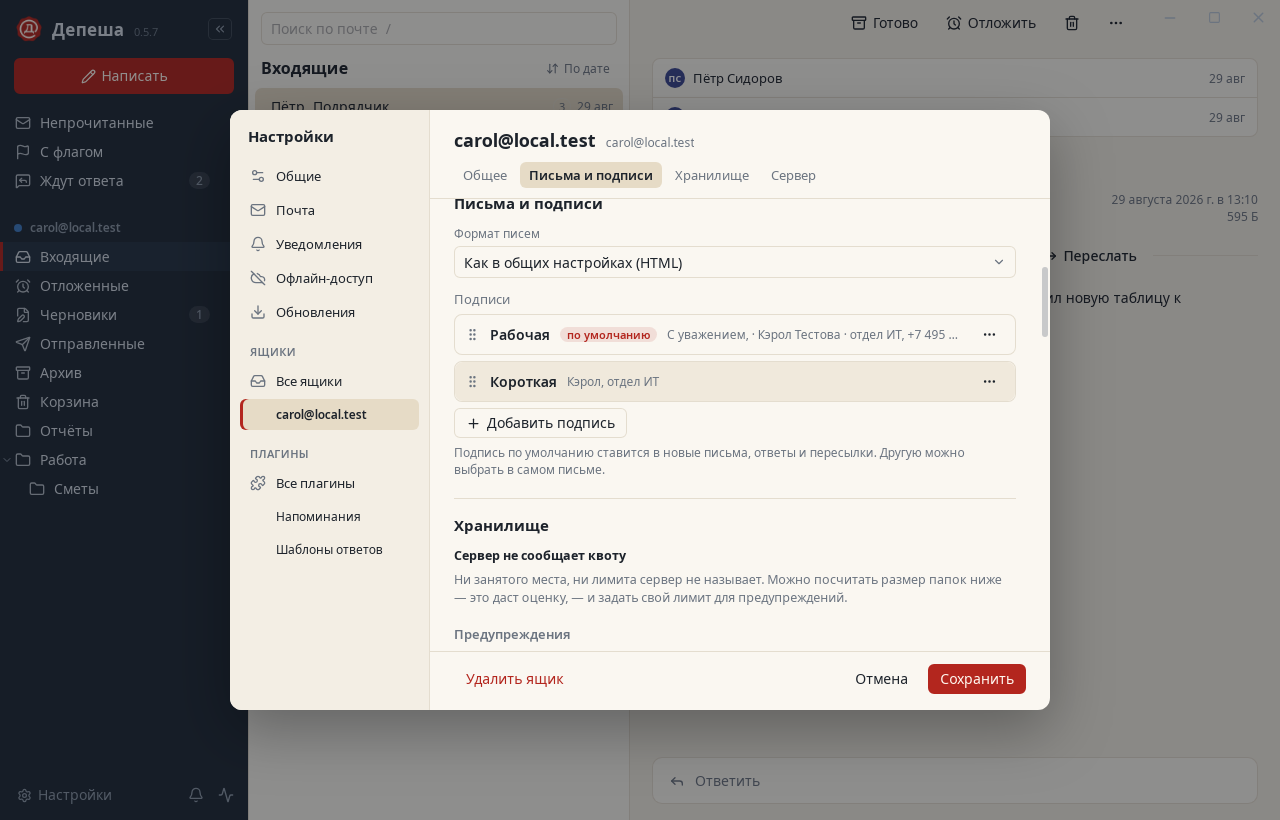
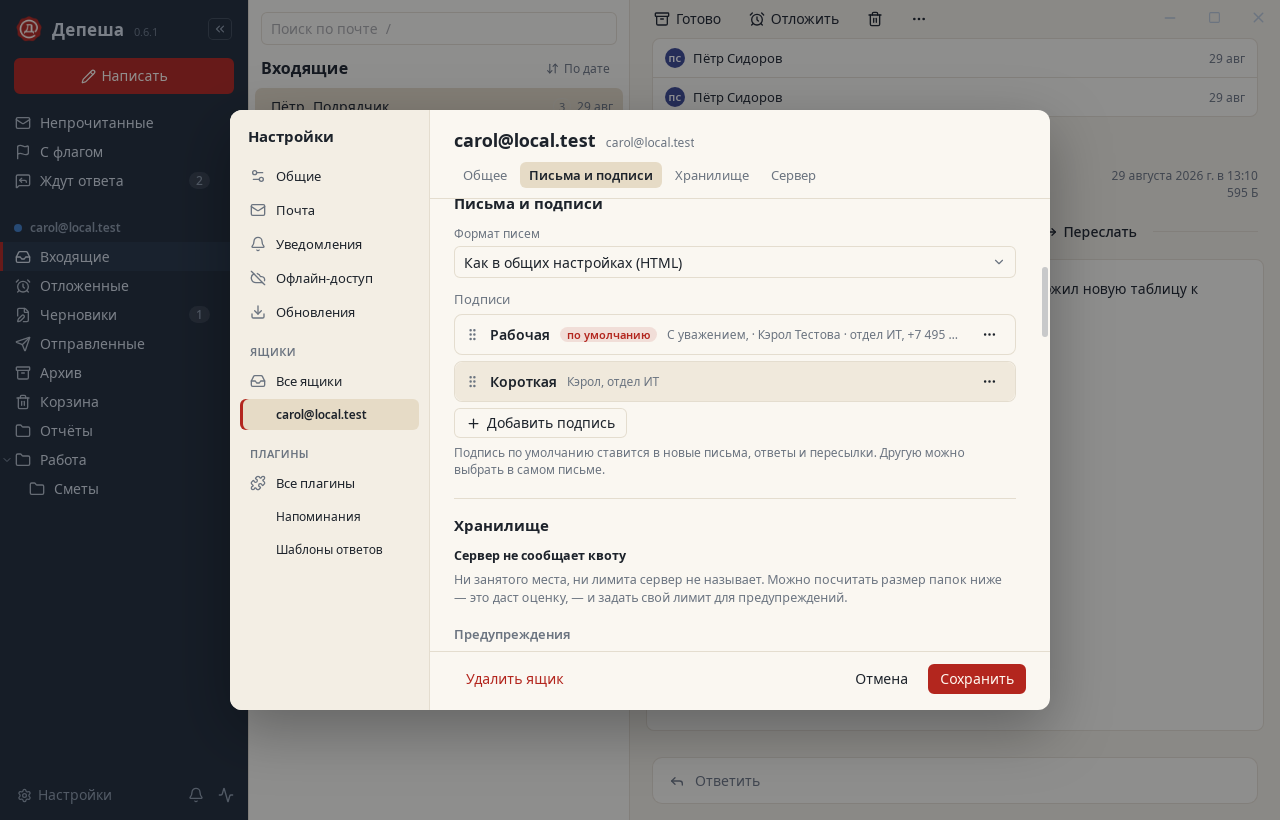
fix: кнопки письма стоят слева над темой, пустой полосы над ней больше нет
«Готово», «Отложить», корзина и «⋯» прижаты к левому краю, меню раскрываются вправо; в узком окне кнопки идут сразу после «‹ Входящие». Отступы над темой и карточками цепочки сокращены. Baseline метрик фронтенда перезаписан, скриншоты README пересняты.

diff --git a/src/components/reader/ReaderToolbar.svelte b/src/components/reader/ReaderToolbar.svelte
@@ -68,13 +68,12 @@
   {#if isDraft}
     <button class="btn primary" onclick={editDraft}><Pencil size={15} /> {t("act.continueDraft")}</button>
   {/if}
-  <span class="sep" data-tauri-drag-region></span>
   <button class="btn ghost" onclick={() => app.archive()} title={t("act.doneHint")}><Archive size={16} /><span class="lbl2">{t("act.done")}</span></button>
   {#each registry.lists.readerToolbar as b (b)}<b.item.component {...b.item.props ?? {}} />{/each}
   <button class="btn ghost icon" onclick={() => app.remove()} title={t("act.deleteHint")} aria-label={t("act.delete")}><Trash size={16} /></button>
   <span class="anchor">
     <button class="btn ghost icon" onclick={() => (moreOpen = !moreOpen)} title={t("act.more")} aria-label={t("act.more")}><Ellipsis size={16} /></button>
-    <Popover bind:open={moreOpen}>
+    <Popover bind:open={moreOpen} align="left">
       <button class="mi" onclick={() => { moreOpen = false; app.flag("flagged", !msg.row.flags.flagged); }}>
         <Flag size={15} /> {msg.row.flags.flagged ? t("act.unflag") : t("act.setFlag")}<span class="hint">s</span>
       </button>
@@ -96,7 +95,7 @@
         <button class="mi" onclick={() => { moreOpen = false; a.run(msg); }}>{#if a.icon}<a.icon size={15} />{/if} {a.title()}{#if a.hint}<span class="hint">{a.hint}</span>{/if}</button>
       {/each}
     </Popover>
-    <Popover bind:open={moveOpen}>
+    <Popover bind:open={moveOpen} align="left">
       <div class="mt">{t("act.moveTitle")}</div>
       <div class="folder-list">
         {#each folders as f (f.name)}
@@ -105,6 +104,8 @@
       </div>
     </Popover>
   </span>
+  <!-- The actions stand from the left, over the subject; the rest of the strip drags the window. -->
+  <span class="sep" data-tauri-drag-region></span>
 </div>
 
 <style>
@@ -112,8 +113,9 @@
     display: flex;
     align-items: center;
     gap: 4px;
-    /* The right edge stays clear for the window controls (WindowControls.svelte). */
-    padding: 8px 144px 8px 12px;
+    /* The right edge stays clear for the window controls (WindowControls.svelte); the
+       buttons stand at their height, the subject comes up right under them. */
+    padding: 4px 144px 0 12px;
     flex-wrap: wrap;
   }
 

diff --git a/plugins/snooze/SnoozeButton.svelte b/plugins/snooze/SnoozeButton.svelte
@@ -29,7 +29,7 @@
     <button class="btn ghost" onclick={() => (snooze.open = !snooze.open)} title={ctx.t(S.hint)}>
       <AlarmClock size={16} /><span class="lbl2">{ctx.t(S.action)}</span>
     </button>
-    <Popover bind:open={() => snooze.open, (v) => (snooze.open = v)}>
+    <Popover bind:open={() => snooze.open, (v) => (snooze.open = v)} align="left">
       <LaterMenu title={ctx.t(S.menuTitle)} presets={snoozePresets()} action={ctx.t(S.action)} onPick={pick} />
     </Popover>
   </span>

diff --git a/src/components/Reader.svelte b/src/components/Reader.svelte
@@ -233,7 +233,7 @@
      Never shrinks: with overflow hidden a long letter would squeeze it to its border. */
   .thread {
     flex: none;
-    margin: 12px 22px 0;
+    margin: 4px 22px 0;
     border: 1px solid var(--line);
     border-radius: 8px;
     background: var(--paper);

diff --git a/src/components/reader/ReaderHeader.svelte b/src/components/reader/ReaderHeader.svelte
@@ -107,7 +107,12 @@
 
 <style>
   .head {
-    padding: 16px 22px 10px;
+    padding: 4px 22px 10px;
+  }
+
+  /* Under the folded letters of the conversation it keeps a gap from their cards. */
+  :global(.thread) + .head {
+    padding-top: 12px;
   }
 
   h1 {
